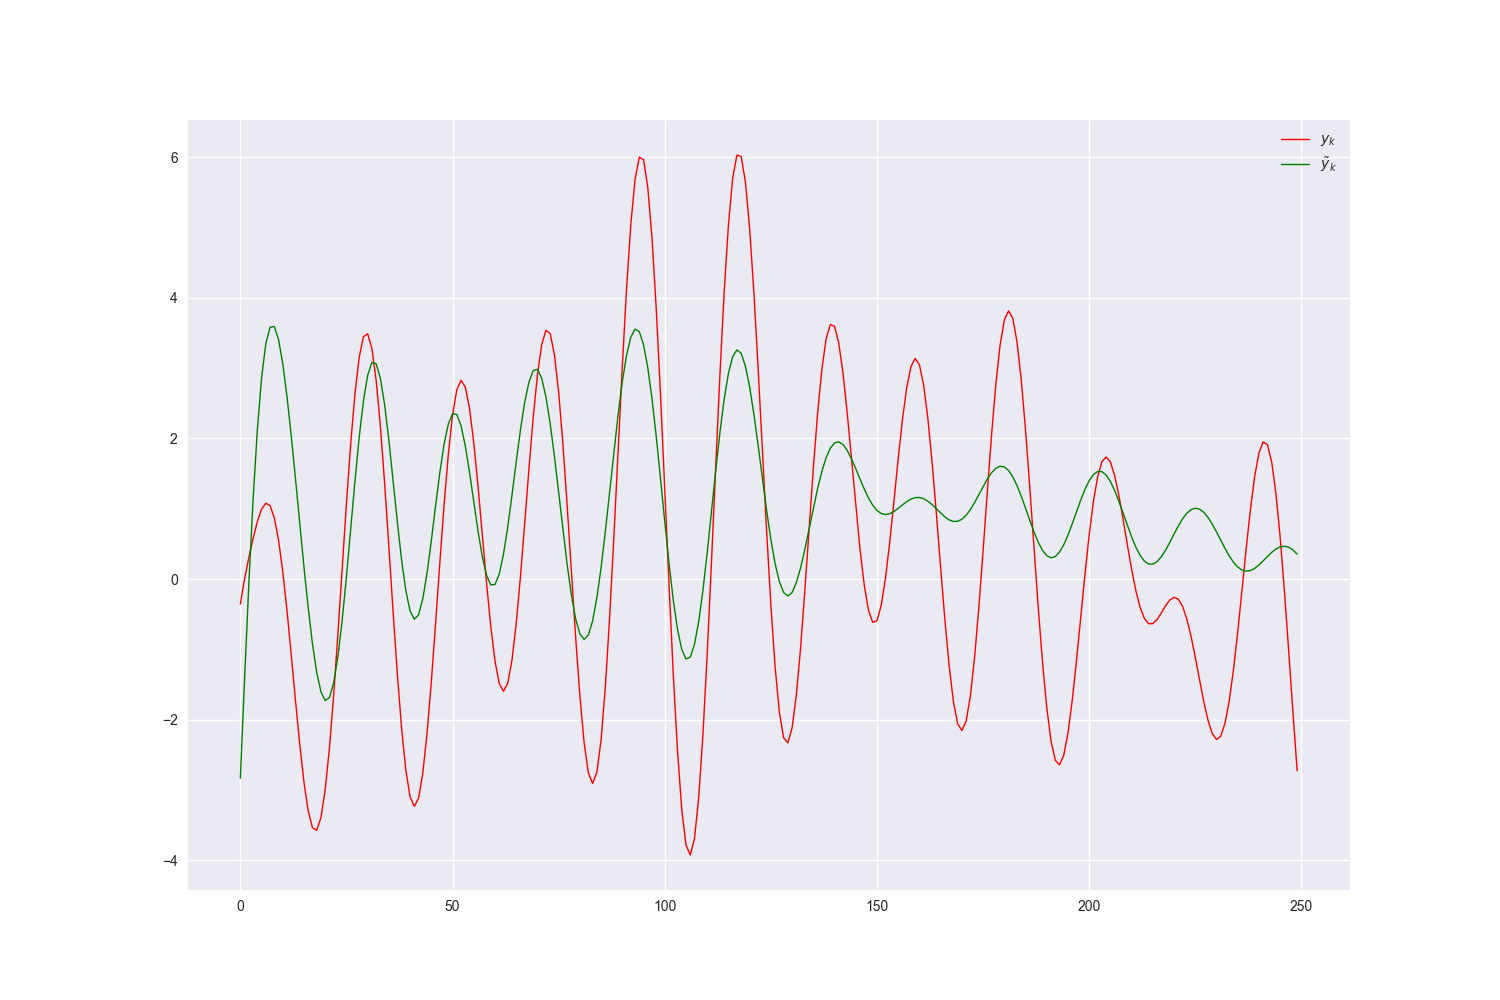
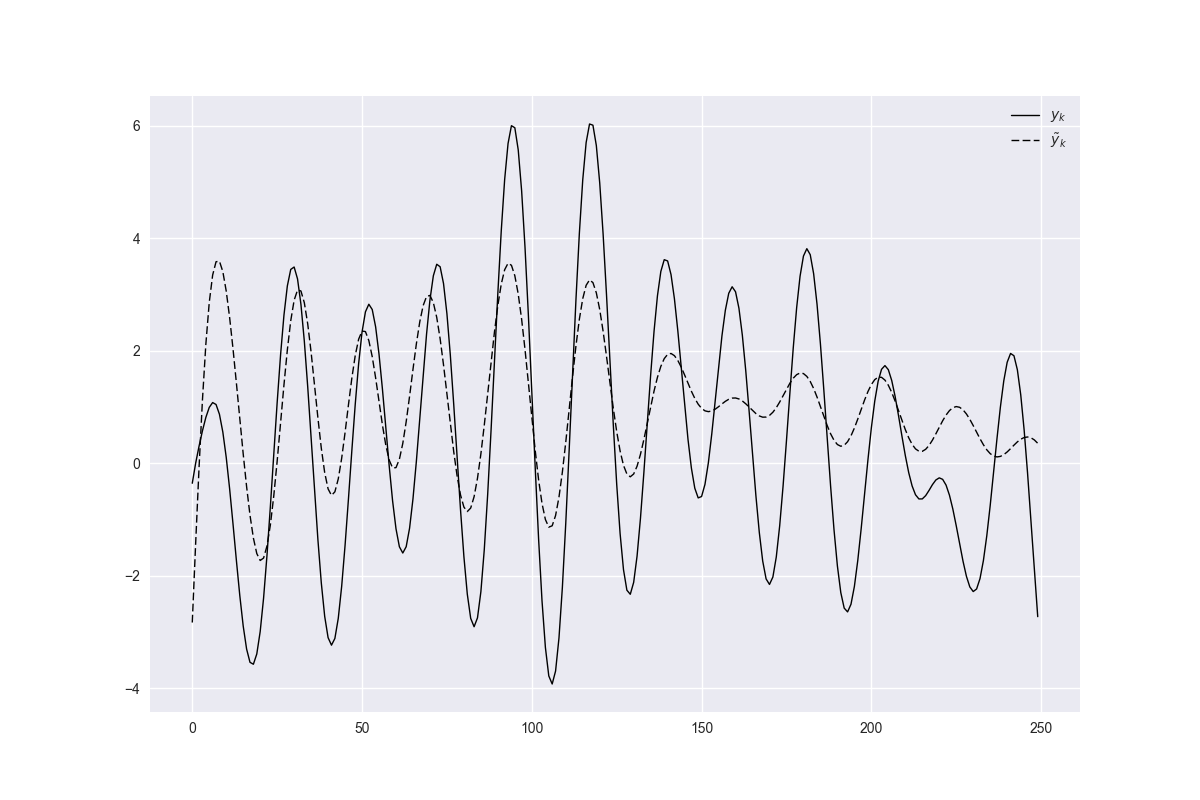
Changed to black-white mode

diff --git a/lab1.py b/lab1.py
@@ -3,7 +3,7 @@ import itertools
 from pylab import *
 import seaborn as sns
 from scipy import optimize
-matplotlib.rcParams['figure.figsize'] = (15, 10)
+matplotlib.rcParams['figure.figsize'] = (12, 8)
 
 from reduction.model import ObservableSystem, SimplifiedObservableSystem
 from reduction.reductors import ResponseFitReductor
@@ -14,30 +14,63 @@ def test_svd():
     from reduction.reductors import SVDReductor
     observable = ObservableSystem(path='lab1_data')
     reductor = SVDReductor(observable.delta)
-    general_test(observable, reductor, 500, 20)
+    tick_count = 250
+    general_test(observable, reductor, tick_count, 20)
+    domain = arange(1, 1 + tick_count)
+    resp_ref = observable(domain)
+    errors = []
+    for reduced_dim in range(1, 11):
+        reduced_observable = reductor.generate_model('lstsq', domain, resp_ref, reduced_dim, verbose=False)
+        resp_est = reduced_observable(domain)
+        errors.append([reduced_dim, np.linalg.norm(resp_ref - resp_est),
+                       np.linalg.norm(resp_ref - resp_est, inf)])
+    fig, axes = subplots(2, 1, figsize=(10, 5), sharex=True)
+    errors = np.array(errors, dtype=np.float64)
+    axes[0].set_title(r'$||\cdot||_2$')
+    axes[0].set_ylabel('error')
+    axes[0].set_xlabel('Q')
+    axes[0].plot(errors[:, 0], errors[:, 1], c='black')
+    axes[1].set_ylabel('error')
+    axes[1].set_xlabel('Q')
+    axes[1].set_title(r'$||\cdot||_{\infty}$')
+    axes[1].plot(errors[:, 0], errors[:, 2], c='black')
+    for ax in axes:
+        ax.set_ylim((0, ax.get_ylim()[1]))
+    fig.tight_layout()
+    fig.savefig('lab1_out/' + 'svd_lstsq' + '_error.png')
+
 
 
 def test_response_fit():
     observable = ObservableSystem(path='lab1_data')
-    fig, ax = subplots()
     converging = {}
+    tick_count = 250
+    domain = arange(1, 1 + tick_count)
+    resp_ref = observable(domain)
     def callback(method, x, response, q):
-        ax.plot(response, '--', label=f"{q}", markersize=2)
         if method not in converging:
-            converging[method] = []
-        converging[method].append((q, response))
+            converging[method] = {}
+        converging[method][q + 1] = (np.linalg.norm(resp_ref - response),
+                                     np.linalg.norm(resp_ref - response, inf))
     reductor = ResponseFitReductor(observable.delta,
                                    ((-1, 1), (-1, 1), (-0.5, 6), (-0.5, 8)),
                                    callback=callback)
-    general_test(observable, reductor, 250, 20)
-    for key, value in converging.items():
-        fig, ax = subplots()
-        alpha_mult = 1 / len(value) / 2
-        for i, (q, resp) in enumerate(value):
-            ax.plot(resp, 'g', alpha=(i+1) * alpha_mult, linewidth=1)
-        ax.plot(value[-1][1], 'g', linewidth=1)
-        ax.plot(observable(arange(1, 250)), 'r', linewidth=1)
-        fig.savefig('lab1_out/' + key + '.png')
+    general_test(observable, reductor, tick_count, 20)
+    for i, (key, value) in enumerate(converging.items()):
+        fig, axes = subplots(2, 1, figsize=(10, 5), sharex=True)
+        errors = np.array(list([q, l2, linf] for q, (l2,linf) in value.items()), dtype=np.float64)
+        axes[0].set_title(r'$||\cdot||_2$')
+        axes[0].set_ylabel('error')
+        axes[0].set_xlabel('Q')
+        axes[0].plot(errors[:,0], errors[:,1], c='black')
+        axes[1].set_ylabel('error')
+        axes[1].set_xlabel('Q')
+        axes[1].set_title(r'$||\cdot||_{\infty}$')
+        axes[1].plot(errors[:,0], errors[:,2], c='black')
+        for ax in axes:
+            ax.set_ylim((0, ax.get_ylim()[1]))
+        fig.tight_layout()
+        fig.savefig('lab1_out/' + key + '_error.png')
 
 
 if __name__ == '__main__':

diff --git a/reduction/stats.py b/reduction/stats.py
@@ -26,19 +26,19 @@ def general_test(observable, reductor, tick_count, reduced_dim, methods=None):
     MSE: {mse}\n""".format(method=method,**fit_report_results)))
 
 
-
 def eigenvalues_fit_report(eig_ref, eig_est):
     figure()
-    scatter(eig_ref.real, eig_ref.imag, c='r', marker='+')
-    scatter(eig_ref.real, -eig_ref.imag, c='r', marker='+')
-    scatter(eig_est.real, eig_est.imag, c='b', marker='x')
-    scatter(eig_est.real, -eig_est.imag, c='b', marker='x')
+    scatter(np.stack((eig_ref.real, eig_ref.real)),
+            np.stack((eig_ref.imag, -eig_ref.imag)), c='black', marker='+', label='input')
+    scatter(np.stack((eig_est.real, eig_est.real)),
+            np.stack((eig_est.imag, -eig_est.imag)), c='black', marker='x', label='output')
+    legend()
 
 
 def response_fit_report(resp_ref, resp_est):
     figure()
-    plot(resp_ref, 'r', linewidth=1, label='$y_k$')
-    plot(resp_est, 'g', linewidth=1, label='$\\tilde y_k$')
+    plot(resp_ref, c='black', linewidth=1, label='$y_k$')
+    plot(resp_est, c='black', linestyle='--', linewidth=1, label='$\\tilde y_k$')
     legend()
     results = {}
     results['r2'] = reg_metrics.r2_score(resp_ref, resp_est)
